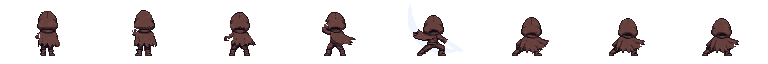
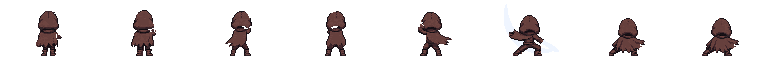
feat: 후면 1타를 오른쪽에서 꺼내 머리 위로 넘긴 뒤 왼쪽에서 베게
사용자 요청: 예전처럼 오른쪽에서 칼을 꺼낸 다음 왼쪽으로 옮겨 벰.
오른쪽 장(뒤집지 않은 1·2번) → 머리 위 두 장(PixelLab 사이 장) → 왼쪽 위 → 판정 → 마무리.
판정 장이 6번째가 되어 프레임 표를 정면 1타와 같게 함.

diff --git a/assets/concepts/pixellab/player_import/build_remake_preview.py b/assets/concepts/pixellab/player_import/build_remake_preview.py
@@ -73,8 +73,10 @@ OVERRIDES = {
     # 후면 1타 3차 (2026-11-18, ChatGPT 가 정면 8장을 뒤에서 본 모습으로 그림 attack_back_v2_68.png). 5번째 = 판정 잔상 장.
     # 3번째는 칼이 몸 앞으로 향해 오른쪽 허리에 짧게만 보여 칼 길이 0.4.
     # 좌우로 뒤집음 (사용자: 왼쪽으로 옮긴 뒤 왼쪽에서 오른쪽으로 벰): x → 67 - x, 각도 → 180 - 각도
-    ('backv2_1', 1): (26, 42, 138, True), ('backv2_1', 2): (26, 36, 117, True), ('backv2_1', 3): (25, 44, 100, True, 0.4),
-    ('backv2_1', 4): (24, 31, 111, True), ('backv2_1', 5): (33, 30, -90, True, 0), ('backv2_1', 6): (42, 46, -29, True),
+    # 9차 (사용자: 예전처럼 오른쪽에서 꺼낸 다음 왼쪽으로 옮겨 벰): 1·2 오른쪽 어깨에서 꺼내 듦(뒤집지 않은 값),
+    # 3·4 머리 위로 넘김(PixelLab 사이 장), 5 왼쪽 위, 6 판정 잔상, 7·8 오른쪽 아래 마무리
+    ('backv2_1', 1): (41, 42, 42, True), ('backv2_1', 2): (41, 36, 63, True), ('backv2_1', 3): (40, 32, 79, True),
+    ('backv2_1', 4): (31, 32, 86, True), ('backv2_1', 5): (24, 31, 111, True), ('backv2_1', 6): (33, 30, -90, True, 0),
     ('backv2_1', 7): (42, 46, -29, True), ('backv2_1', 8): (40, 46, -29, True),
     ('backgpt1', 1): (34, 30, -90, True, 0), ('backgpt1', 2): (28, 41, 41, True), ('backgpt1', 3): (32, 34, 50, True),
     ('backgpt1', 4): (34, 30, -90, True, 0), ('backgpt1', 5): (36, 43, -157, True), ('backgpt1', 6): (38, 37, -147, True),
@@ -114,10 +116,10 @@ FRAME_PICK = {
     'attack3': [1, 2, 3, 4, 5, 6, 7, 8],
 }
 # 파란 덩어리를 모두 휘두른 잔상으로 보는 프레임 (칼은 몸에 가려 안 보이고 잔상만 있음, 2026-11-18 후면 1·2타)
-FORCE_SMEAR = {('backgpt1', 4), ('backgpt2', 4), ('backpl1', 5), ('backpl1', 6), ('backv2_1', 5)}
+FORCE_SMEAR = {('backgpt1', 4), ('backgpt2', 4), ('backpl1', 5), ('backpl1', 6), ('backv2_1', 6)}
 # 잔상을 몸 위에 겹쳐 그리는 프레임 (반투명): 후면 1타 내려베는 순간 — 몸 뒤면 가운데가 가려져 한 번에 베는 느낌이 안 남 (2026-11-18)
 # 직접 그린 잔상이라 원본 칼 자리로 지우지 않는 칸
-KEEP_WHOLE_SMEAR = {('backv2_1', 5)}
+KEEP_WHOLE_SMEAR = {('backv2_1', 6)}
 SMEAR_ON_TOP = {('backpl1', 5)}  # backv2_1 5 는 몸 뒤 (2026-11-18 사용자 지적)
 # 칼·잔상이 몸과 얼굴을 가로질러 지운 자리가 지저분하게 남는 프레임은 깨끗한 프레임의 그림을 빌려 쓴다
 # (2026-11-17 사용자 지적: 얼굴 그림자가 프레임마다 다르고 픽셀이 묻어 있음).

diff --git a/assets/concepts/pixellab/player_import/build_attack_back_v2.py b/assets/concepts/pixellab/player_import/build_attack_back_v2.py
@@ -25,6 +25,11 @@ SWOOSH = (4, (22, 20, 36, -20, 112, 8))
 # 좌우로 뒤집기 (같은 날 사용자: 칼을 꺼내 왼쪽으로 옮긴 뒤 왼쪽에서 오른쪽으로 베게 — 정면처럼 바로 내려치지 않게).
 # 뒷모습은 거의 좌우 대칭이라 몸·잔상을 통째로 뒤집는다. 칼 자리는 build_remake_preview.OVERRIDES 'backv2_1' 이 뒤집은 값.
 MIRROR = True
+# 칼은 예전처럼 오른쪽 어깨에서 꺼내 → 오른쪽 위로 들고 → 머리 위를 넘어 → 왼쪽 위 → 왼쪽에서 오른쪽으로 벰 (같은 날 사용자 요청).
+# 오른쪽 장은 뒤집지 않은 1·2번, 왼쪽 장은 뒤집은 4번. 머리 위 두 장은 PixelLab animate_image 가
+# 뒤집지 않은 4번(오른쪽 위) → 뒤집은 4번(왼쪽 위) 사이를 그린 것 (attack_back_kit/hit1_v2/overhead/o1, o2).
+OVERHEAD = os.path.join(HERE, 'attack_back_kit', 'hit1_v2', 'overhead')
+ORDER = [('p', 1), ('p', 2), ('o', 1), ('o', 2), ('m', 4), ('m', 5), ('m', 7), ('m', 8)]
 
 
 def match_tones(cells, ref):
@@ -111,14 +116,19 @@ def main():
             cell = pb.snap(Image.open(restyled).convert('RGBA'), palette)  # 같은 68 칸 자리로 돌려받음
         body.append(cell)
     body = [body[0]] + match_tones(body[1:], body[0])
-    sheet = Image.new('RGBA', (68 * 9, 68), (0, 0, 0, 0))
+    plain, flipped = [], []
     for k, cell in enumerate(body):
         if k - 1 == SWOOSH[0]:
             arc = bp.swoosh(cell.size, *SWOOSH[1])  # 판정 장: 잔상은 몸 뒤 (뒷모습이라 칼은 몸 너머, 같은 날 사용자 지적)
             arc.alpha_composite(cell)
             cell = arc
-        if MIRROR and k > 0:
-            cell = cell.transpose(Image.FLIP_LEFT_RIGHT)
+        plain.append(cell)
+        flipped.append(cell.transpose(Image.FLIP_LEFT_RIGHT) if MIRROR and k > 0 else cell)
+    # 장 순서 (ORDER): ('p', k) = 뒤집지 않은 k번째, ('m', k) = 뒤집은 k번째, ('o', n) = 머리 위로 넘기는 PixelLab 사이 장
+    overhead = {n: pb.snap(Image.open(os.path.join(OVERHEAD, f'o{n}.png')).convert('RGBA'), palette) for n in (1, 2)}
+    picked = [body[0]] + [plain[k] if src == 'p' else flipped[k] if src == 'm' else overhead[k] for src, k in ORDER]
+    sheet = Image.new('RGBA', (68 * 9, 68), (0, 0, 0, 0))
+    for k, cell in enumerate(picked):
         sheet.alpha_composite(cell, (k * 68, 0))
     sheet.save(os.path.join(b.RAW, 'attack_back_v2_68.png'))
     prev = Image.new('RGBA', sheet.size, (128, 128, 128, 255))

diff --git a/game/config.py b/game/config.py
@@ -197,17 +197,19 @@ PLAYER_ATTACK_SWORD_BACK = (
     # 1타 (2026-11-18 사용자: PixelLab 후면은 허리·다리가 따로 놀고 어정쩡함): ChatGPT 가 정면 1타 8장을 "뒤에서 본 같은 순간"으로
     # 그린 그림(좌우로 뒤집어 씀). 왼쪽에 든 칼을 왼쪽 어깨 위로 → 5번째(판정)에 크게 내디디며 오른쪽 아래로 벰(초승달 잔상) → 낮게 마무리.
     # 좌우로 뒤집음 (같은 날 사용자: 칼을 꺼내 왼쪽으로 옮긴 뒤 왼쪽에서 오른쪽으로 베게, 바로 내려치지 않게)
-    ((40, 39, 138, True), (40, 33, 117, True), (39, 41, 100, True, 0.4), (38, 28, 111, True),
-     (47, 27, -90, True, 0), (56, 43, -29, True), (56, 43, -29, True), (54, 43, -29, True)),
+    # 다시 (같은 날 사용자: 예전처럼 오른쪽에서 꺼낸 다음 왼쪽으로 옮겨 벰): 1·2 오른쪽 어깨에서 꺼내 듦 → 3·4 머리 위로 넘김
+    # (PixelLab 사이 장) → 5 왼쪽 위 → 6 판정(잔상, 몸 뒤) → 7·8 오른쪽 아래 마무리
+    ((55, 39, 42, True), (55, 33, 63, True), (54, 29, 79, True), (45, 29, 86, True),
+     (38, 28, 111, True), (47, 27, -90, True, 0), (56, 43, -29, True), (54, 43, -29, True)),
     ((48, 27, -90, True, 0), (50, 36, -143, True), (43, 43, -152, True), (56, 31, 60, True),
      (49, 24, 88, True), (47, 28, 64, True), (50, 34, 77, True), (48, 27, -90, True, 0)),
     ((48, 27, -90, True, 0), (54, 37, 90, True), (54, 37, 90, True), (51, 27, 87, True),
      (49, 23, 90, True), (49, 23, 90, True), (49, 29, 92, True), (48, 27, -90, True, 0)),
 )
 # 후면 타별 프레임 표 (None = 같은 간격). 2타는 올려베는 잔상이 4번째 장이라 판정 시점(0.25)에 그 장이 나오게 앞을 빨리 넘긴다.
-# 1타는 측면과 같은 8장 같은 간격 (2026-11-18 사용자: 후면만 박자가 다름): 5번째 잔상 장이 판정 시점 0.5 에 시작.
+# 1타는 정면 1타와 같은 표 (2026-11-18): 6번째 잔상 장이 0.5 에 시작 (머리 위로 넘기는 장이 늘어 판정 장이 6번째).
 PLAYER_ATTACK_FRAME_ENDS_BACK = (
-    None,
+    (0.1, 0.2, 0.3, 0.4, 0.5, 0.62, 0.81, 1.0),
     (0.08, 0.16, 0.24, 0.36, 0.5, 0.66, 0.83, 1.0),
     None,
 )
